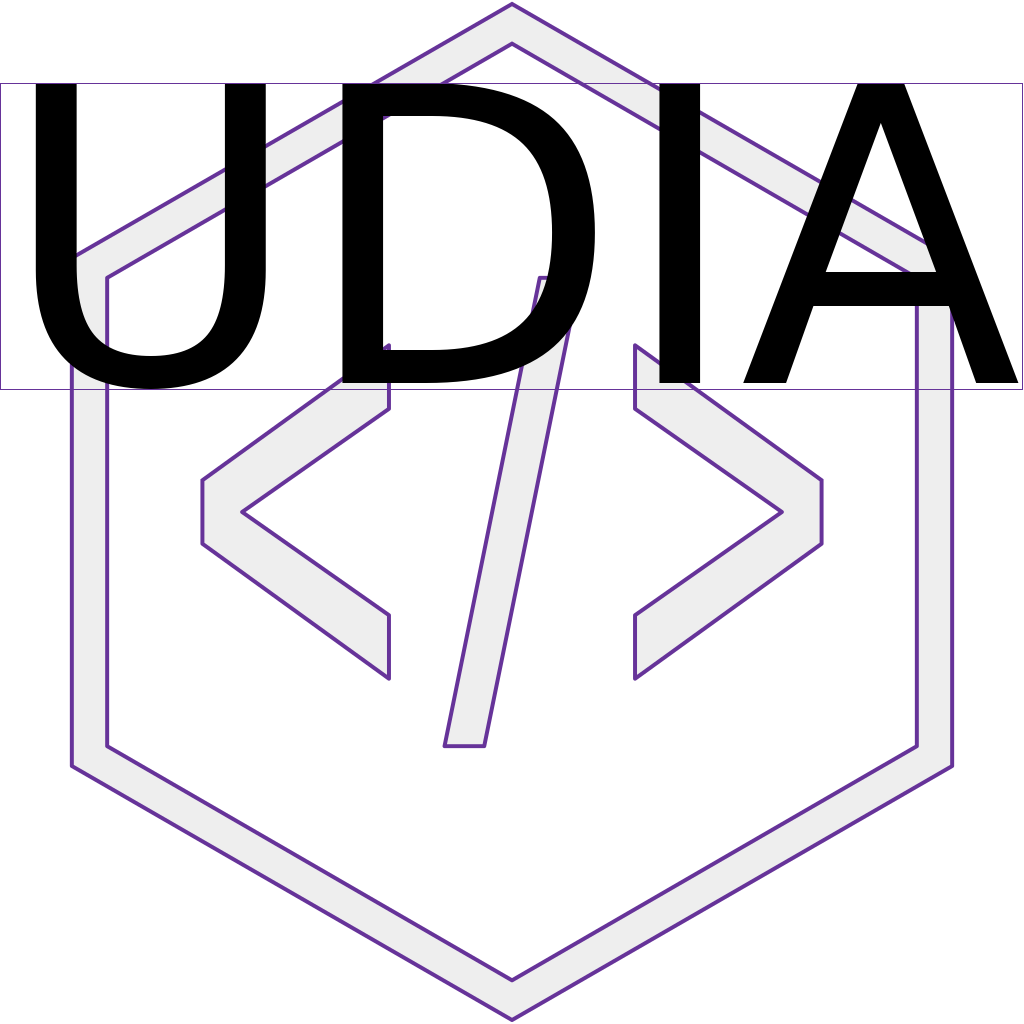
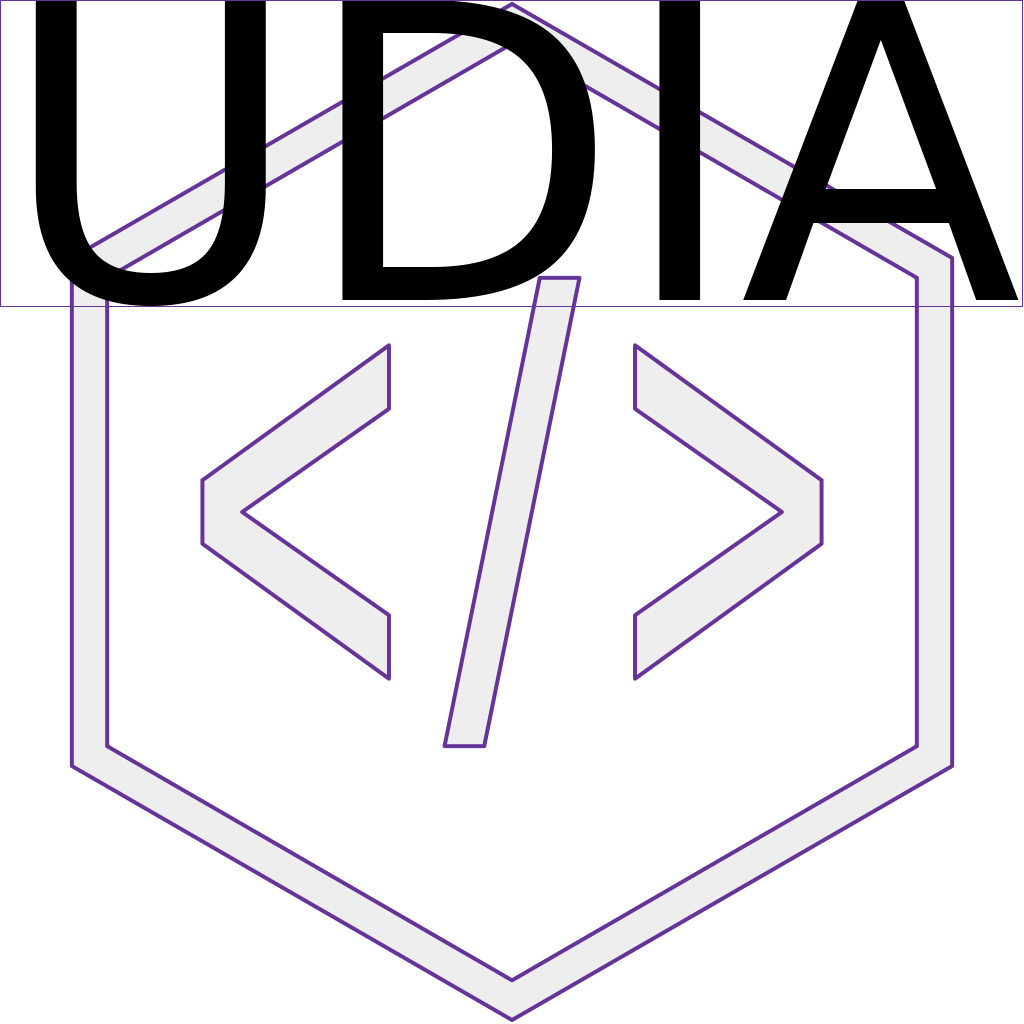
fix: align to top of image

diff --git a/public/tanner/big_text_labels.py b/public/tanner/big_text_labels.py
@@ -3,13 +3,13 @@
 from PIL import Image, ImageEnhance, ImageFont, ImageDraw
 from os import path
 
-def fit_text(text, script_dir, font_path, label_path, font_size):
+def fit_text(text, script_dir, font_path, label_path, font_size, anchor="lt"):
     img = Image.open(label_path)
     draw = ImageDraw.Draw(img)
     print(f"img.size: {img.size}")
 
     font = ImageFont.truetype(font_path, size=font_size)
-    space_bbox = font.getbbox(" ")
+    space_bbox = font.getbbox(" ", anchor=anchor)
     [space_left, space_upper, space_right, space_lower] = space_bbox
     space_width = abs(space_left) + abs(space_right)
     space_height = abs(space_upper) + abs(space_lower)
@@ -17,8 +17,9 @@ def fit_text(text, script_dir, font_path, label_path, font_size):
 
     text_cur = [0, 0]
     line_bottom = 0
+
     for word in text.split():
-        word_bbox = font.getbbox(word)
+        word_bbox = font.getbbox(word, anchor=anchor)
         [word_left, word_upper, word_right, word_lower] = word_bbox
         word_width = abs(word_left) + abs(word_right)
         word_height = abs(word_upper) + abs(word_lower)
@@ -52,7 +53,7 @@ def fit_text(text, script_dir, font_path, label_path, font_size):
 
 
         # print(f"{word:>10}, word_bbox: {word_bbox}, word_rec: {word_rec}")
-        draw.text(text_cur, word, font=font, fill="black")
+        draw.text(text_cur, word, font=font, fill="black", anchor=anchor)
         draw.rectangle(
             word_rec, outline="#663399"
         )  # optional. draw a border around the text.
